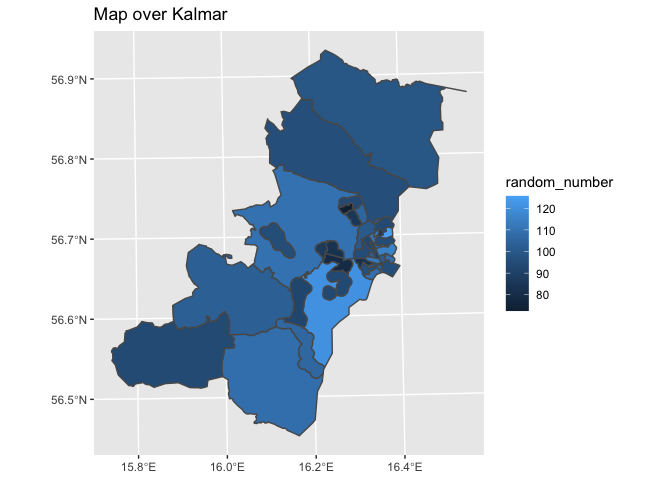
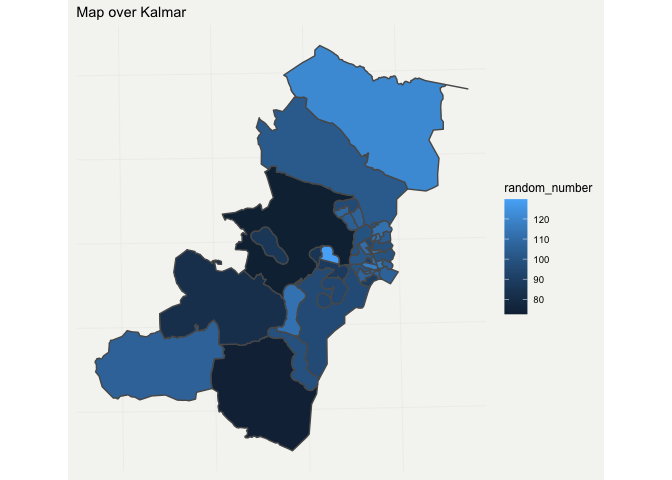
added another theme

diff --git a/README.md b/README.md
@@ -7,7 +7,8 @@ of Sweden in R.
 ![](README_files/figure-gfm/unnamed-chunk-1-1.png)<!-- -->
 
 This is the successor of
-[`swemaps`](https://github.com/reinholdsson/swemaps) by @reinholdsson
+[`swemaps`](https://github.com/reinholdsson/swemaps) by
+\[@reinholdsson\](<https://github.com/reinholdsson>)
 
 ## Installation
 
@@ -62,7 +63,8 @@ county %>%
   mutate(random_number = rnorm(nrow(.), mean = 100, sd = 10) ) %>% 
 ggplot(aes(fill = random_number)) +
   geom_sf() +
-  scale_fill_viridis_c()
+  scale_fill_viridis_c() +
+  theme_swemap2()
 ```
 
 ![](README_files/figure-gfm/unnamed-chunk-4-1.png)<!-- -->
@@ -74,7 +76,8 @@ municipality %>%
   mutate(random_number = rnorm(nrow(.), mean = 100, sd = 10) ) %>% 
 ggplot(aes(fill = random_number)) +
   geom_sf() +
-  scale_fill_viridis_c()
+  scale_fill_viridis_c() +
+  theme_swemap2()
 ```
 
 ![](README_files/figure-gfm/unnamed-chunk-5-1.png)<!-- -->
@@ -99,7 +102,8 @@ fa_region %>%
   mutate(random_number = rnorm(nrow(.), mean = 100, sd = 10) ) %>% 
 ggplot(aes(fill = random_number)) +
   geom_sf() +
-  scale_fill_viridis_c()
+  scale_fill_viridis_c() +
+  theme_swemap()
 ```
 
 ![](README_files/figure-gfm/unnamed-chunk-8-1.png)<!-- -->
@@ -115,7 +119,7 @@ deso <- load_deso()
 ```
 
     ## Reading layer `DeSO_2018_v2' from data source 
-    ##   `/private/var/folders/pn/9hhpnpd15_d2k3qp5k814nnh0000gq/T/RtmpsVx7gt/deso_2018_2021-10-21/DeSO_2018_v2.gpkg' 
+    ##   `/private/var/folders/pn/9hhpnpd15_d2k3qp5k814nnh0000gq/T/Rtmptq0336/deso_2018_2021-10-21/DeSO_2018_v2.gpkg' 
     ##   using driver `GPKG'
     ## Simple feature collection with 5984 features and 7 fields
     ## Geometry type: POLYGON
@@ -131,7 +135,8 @@ deso %>%
   geom_sf() +
   labs(
     title = "Map over Kalmar"
-  )
+  ) +
+  theme_swemap2()
 ```
 
 ![](README_files/figure-gfm/unnamed-chunk-9-1.png)<!-- -->
@@ -162,7 +167,8 @@ ggplot(sthlm, aes(fill = kvinnor_45)) +
   labs(
     title = "Stockholm women 45",
     caption = "Source: https://dataportalen.stockholm.se"
-  )
+  ) +
+  theme_swemap2()
 ```
 
 ![](README_files/figure-gfm/unnamed-chunk-12-1.png)<!-- -->
@@ -173,8 +179,9 @@ Gothenburg has the largest map:
 
 ``` r
 ggplot(gbg, aes(fill = area_km2)) +
-         geom_sf() +
+  geom_sf() +
   scale_fill_viridis_c() +
+  theme_swemap2() +
   labs(
     title = "Gothenburg by area size",
     caption = "Source: http://statistikdatabas.goteborg.se/pxweb/sv/"
@@ -189,6 +196,7 @@ ggplot(gbg, aes(fill = area_km2)) +
 ggplot(malmo, aes(fill = area)) +
   geom_sf() +
   scale_fill_viridis_c() +
+  theme_swemap2() +
   labs(
     title = "Malmö by area size",
     caption = "Source: https://malmo.dataplatform.se/"
